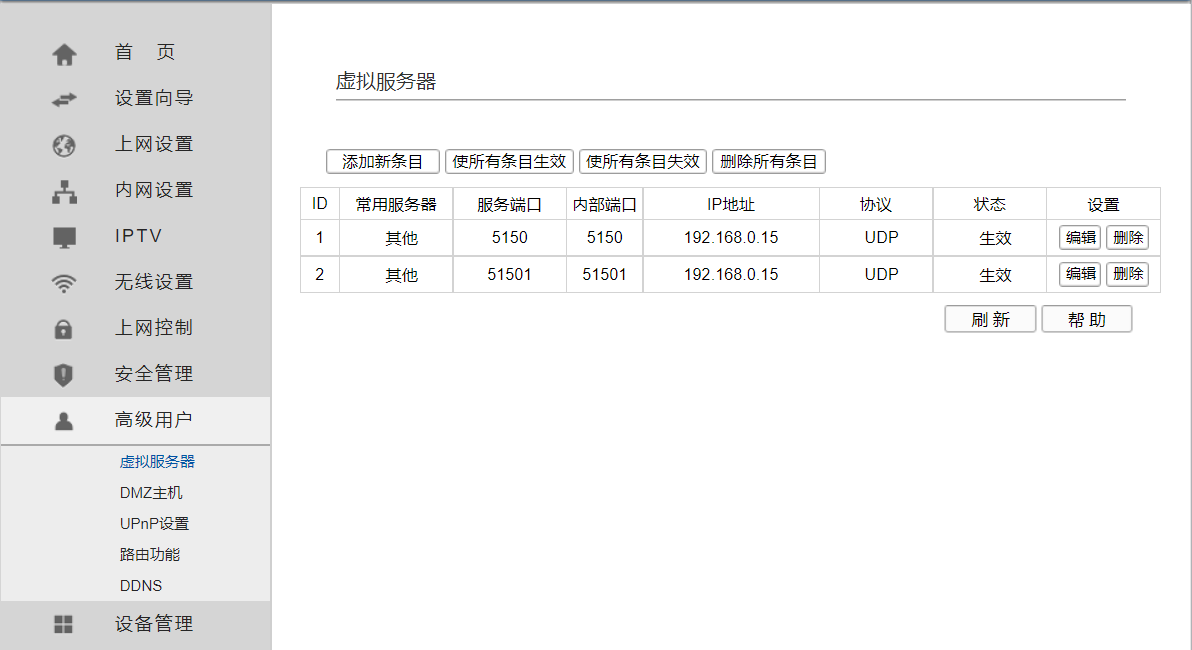
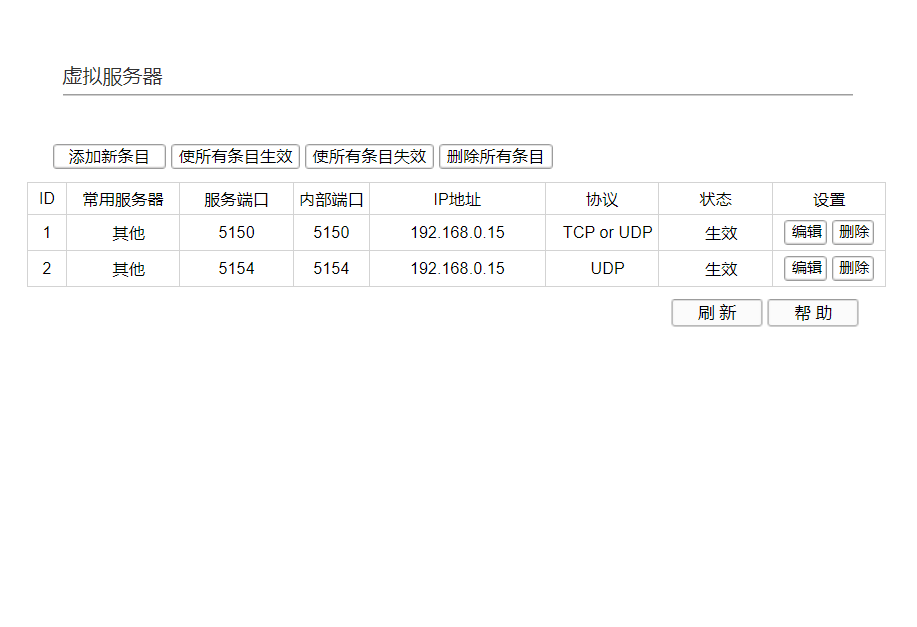
update Help

Changed region(s): [[0.0, 0.0, 1.0, 1.0], [0.2748, 0.0909, 0.3664, 0.1515]]

diff --git a/Help/zh-CN/zHelp.htm b/Help/zh-CN/zHelp.htm
@@ -151,7 +151,7 @@
     <p style="margin-left: 40px">使用您的浏览器，登录到调制解调器（或者叫猫）的主页，网址类似如下</p>
     <p style="margin-left: 40px"><a href="http://192.168.0.1">http://192.168.0.1</a></p>
     <p style="margin-left: 40px"><a href="http://192.168.1.1">http://192.168.1.1</a></p>
-    <p style="margin-left: 40px">登录后，如下图进行端口转发，将默认主要端口号5150以及次要端口号51501的UDP流量转发到您的电脑（192.168.0.15）。或者也可以使用上文您中意的其他端口号。</p>
+    <p style="margin-left: 40px">登录后，如下图进行端口转发，将默认主要端口号5150以及次要端口号5154的TCP/UDP流量转发到您的电脑（192.168.0.15）。或者也可以使用上文您中意的其他端口号。</p>
     <p style="margin-left: 40px">
         <img alt="Port Forwarding" class="auto-style9" longdesc="Port Forwarding" src="z6b.png" /></p>
     <p style="margin-left: 40px">&nbsp;</p>
@@ -201,8 +201,8 @@
     <p style="margin-left: 40px">10<a name="exactline10">、现存的问题</a></p>
     <p style="margin-left: 40px">1）音频-视频延时</p>
     <p style="margin-left: 40px">一般情况下，不到1秒延时。基于网络速度，可能有更多的延时。</p>
-    <p style="margin-left: 40px">2）三方通讯不可靠</p>
-    <p style="margin-left: 40px">在某些网络状况下，三方通讯时，参会人员有可能听不清楚主持人讲话。</p>
+    <p style="margin-left: 40px">2）多方通讯不可靠</p>
+    <p style="margin-left: 40px">在某些网络状况下，多方通讯时，参会人员有可能听不清楚主持人讲话。</p>
     <p style="margin-left: 40px">3）连线问题</p>
     <p style="margin-left: 40px">有时，参会人输入错误的圣经章节及口令，导致无法登录。</p>
     <p style="margin-left: 40px">有时，参会人在看到成功登录窗口后，还是无法加入会议，可能是带宽等因素导致。请等待一两分钟，重启LMS再试。好运！</p>

diff --git a/Help/en-US/eHelp.htm b/Help/en-US/eHelp.htm
@@ -150,7 +150,7 @@
     <p style="margin-left: 40px">Using your browser, login to your modem, such as</p>
     <p style="margin-left: 40px"><a href="http://192.168.0.1">http://192.168.0.1</a></p>
     <p style="margin-left: 40px"><a href="http://192.168.1.1">http://192.168.1.1</a></p>
-    <p style="margin-left: 40px">Secondly, add Port Forwarding as below, to forward UDP traffic of primary default port 5150 and secondary default port 51501, to your computer(such as 192.168.0.15). Or you may use other ports of your choice beforehand.</p>
+    <p style="margin-left: 40px">Secondly, add Port Forwarding as below, to forward TCP/UDP traffic of primary default port 5150 and secondary default port 5154, to your computer(such as 192.168.0.15). Or you may use other ports of your choice beforehand.</p>
     <p style="margin-left: 40px">
         <img alt="Port Forwarding" class="auto-style9" longdesc="Port Forwarding" src="e6b.png" /></p>
     <p style="margin-left: 40px">&nbsp;</p>
